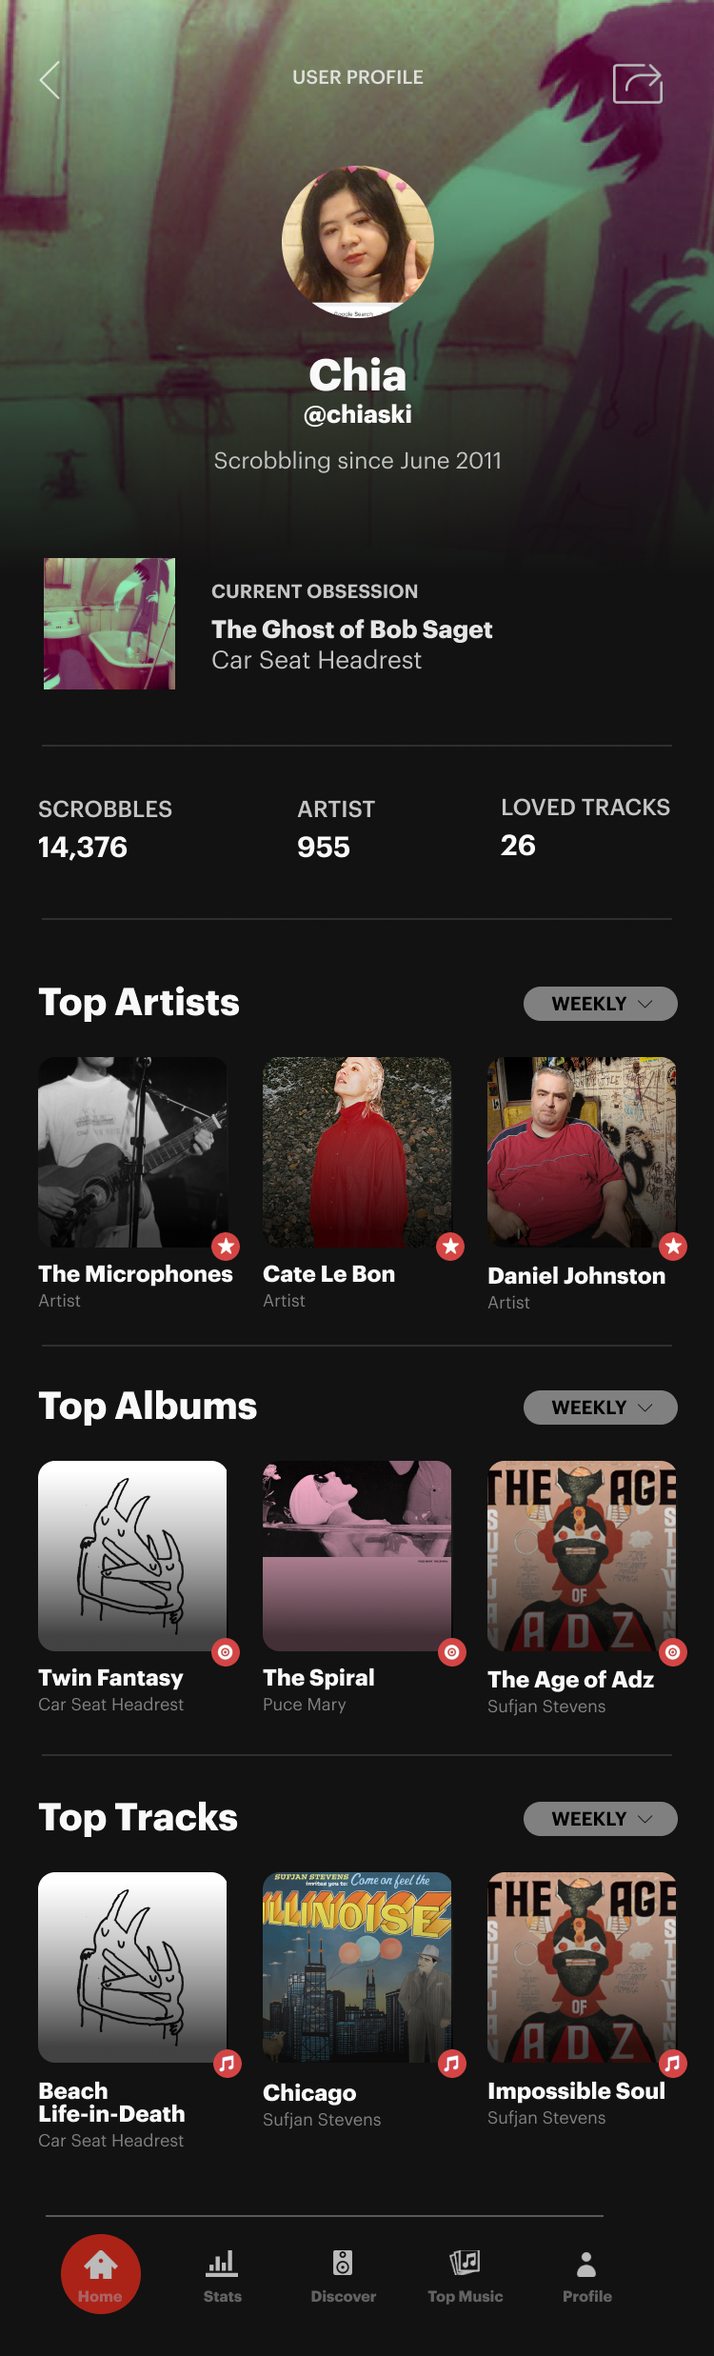
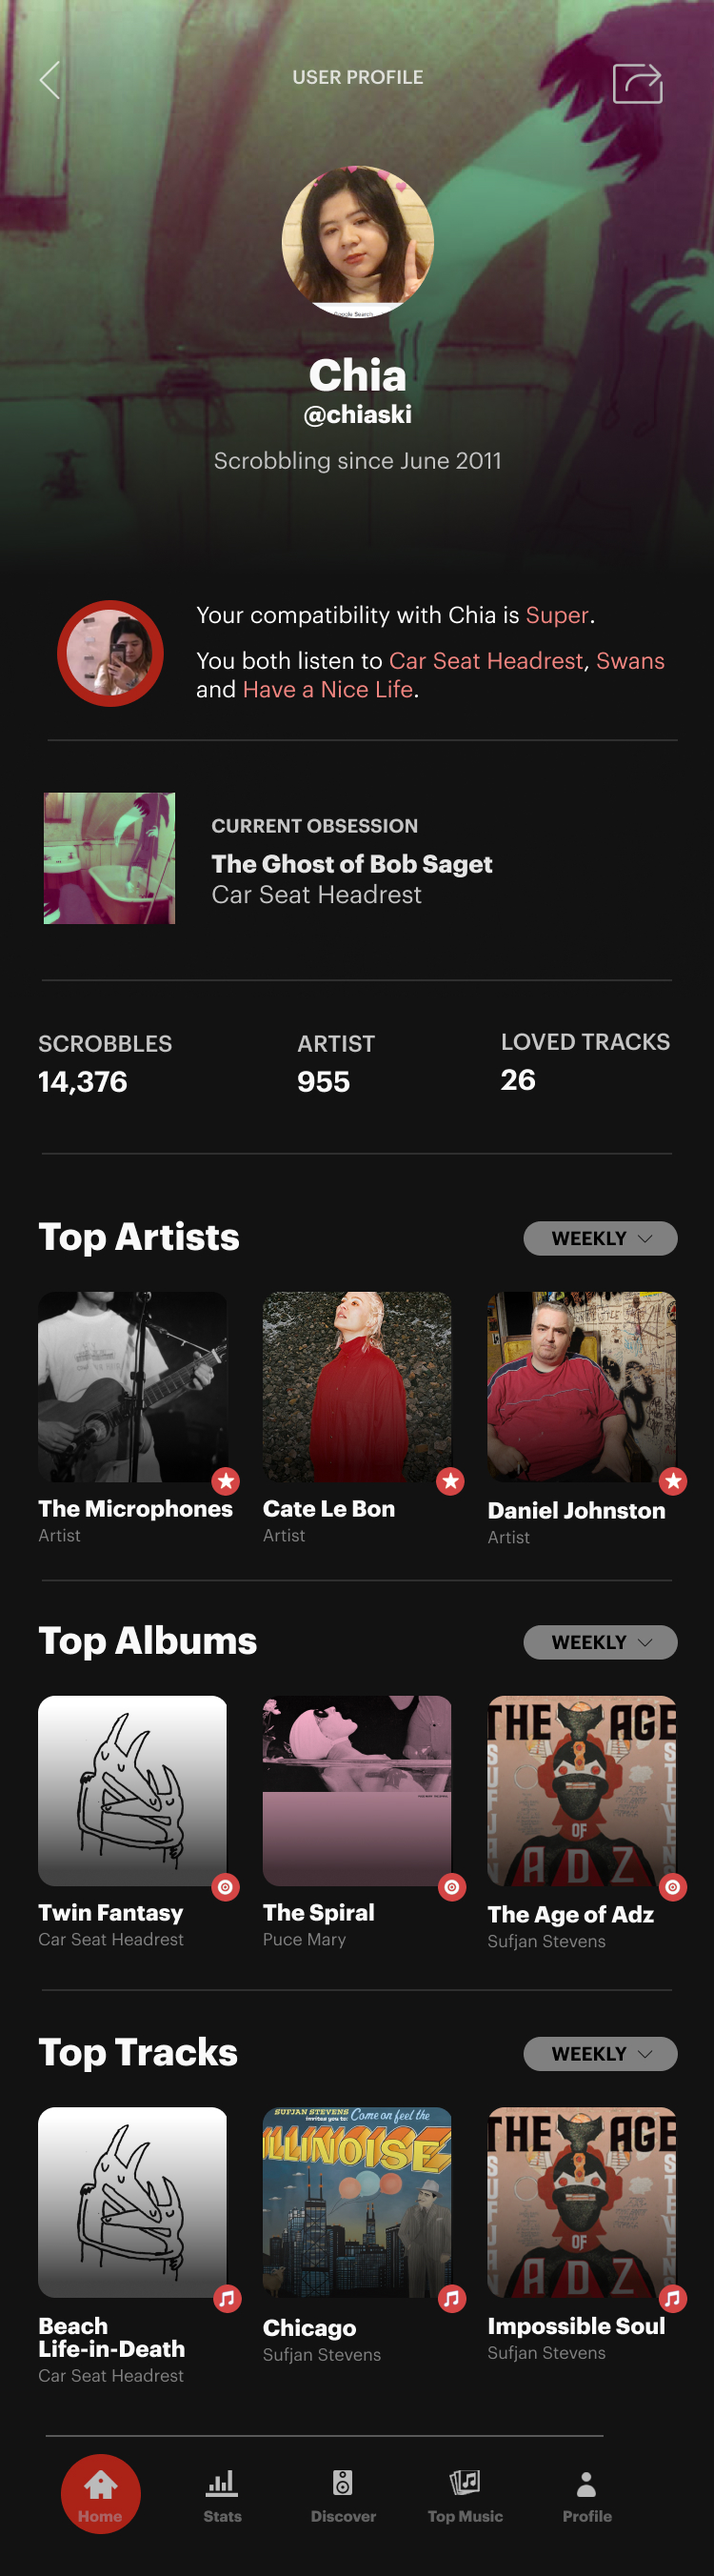
clarify profile discovery

diff --git a/public/work/lastfm.html b/public/work/lastfm.html
@@ -697,7 +697,12 @@
 
                             <div class="image-container-tall image-container-iphone">
                                 <em>Mid-fi profile page (scroll ↓)</em>
-                                <img loading="lazy" class="image-full " src="../assets/portfolio/lastfm/midfi-profile-long-2.jpg">
+                               
+                        <span class="image-container">
+                            <br><br><img loading="lazy" class="image-full" src="../assets/portfolio/lastfm/midfi-profile-long-2.jpg">
+                        </span>
+                            
+
                             </div>
 
                         </div>
@@ -712,13 +717,26 @@
                                     <li><strong>A listening clock</strong> provides a time-based glance.</li>
                                 </ul>
                             
-                                <br>Other potential features for this space are neighbors (users with similar music tastes to you) and more details covering play counts & listener statistics.</p>
-
+                                <br>
                             <p>On profiles at just a glance we get a snippet of a user's activity and history, week to week.<br><strong>As a musical calling card, all music stats  are compiled on the screen.</strong></p>
 
                         </div>
                     </div>
+      
+                            <p>Other potential features for this space are neighbors (users with similar music tastes to you) and more details covering play counts & listener statistics.</p>
 
+                    <h3>Social Discovery</h3>
+                    
+                        <span class="image-container">
+                            <br><br><img loading="lazy" class="image-full" src="../assets/portfolio/lastfm/social-profile.jpg">
+                            <em>Your compatibility with Chia is Super</em>
+                        </span><br>
+                    
+                    <p><strong>Social Compatibility</strong>&mdash;How do profiles come into play on the app? By taking a music-centric approach, user profiles can showcase music compatibility, and lead users to trails of new artists from other's own habits. It's social without being explicit about traditional, cluttered messaging and chat features that are better suited to the full website.<br>At the bottom of music pages, "Top Listeners" highlighted by recent activity can be displayed to further facilitate this.</p>
+
+                    
+        
+                    
 
                     <hr>
                     <hr>
@@ -755,7 +773,7 @@
                 
                         <span class="image-container">
                             <br><br><img loading="lazy" class="image-full" src="../assets/portfolio/lastfm/notif-preview.png">
-                        </span>
+                        </span><br>
 
                 <p><strong>Listening Report Notifications</strong>&mdash;Last.fm also has incredible potential to use push notifications and emails to deliver users overviews of their activity, driving them to check their stats and discover some new music along the way.</p>
                 
